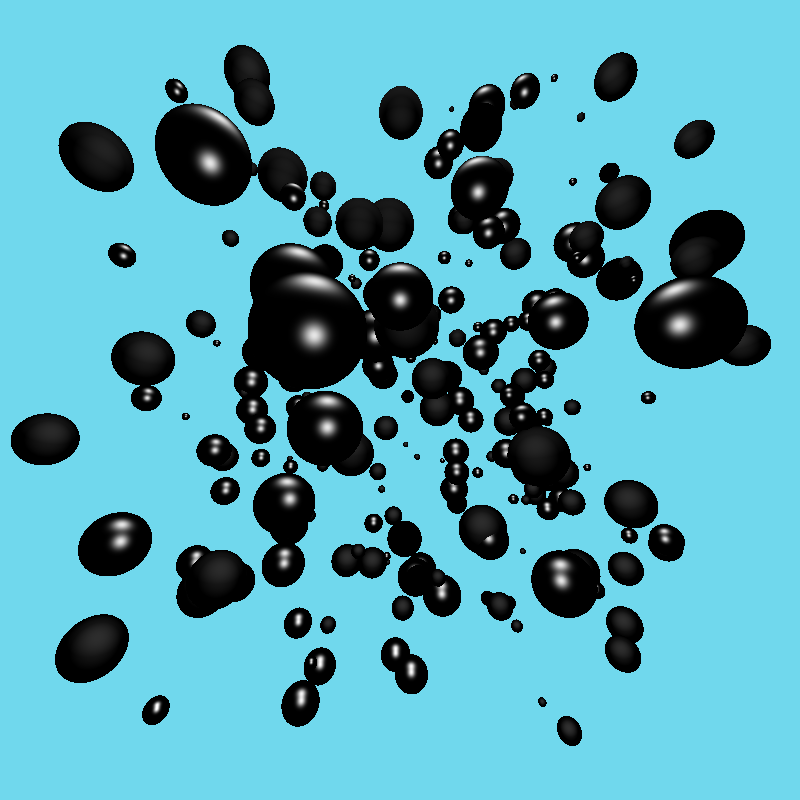
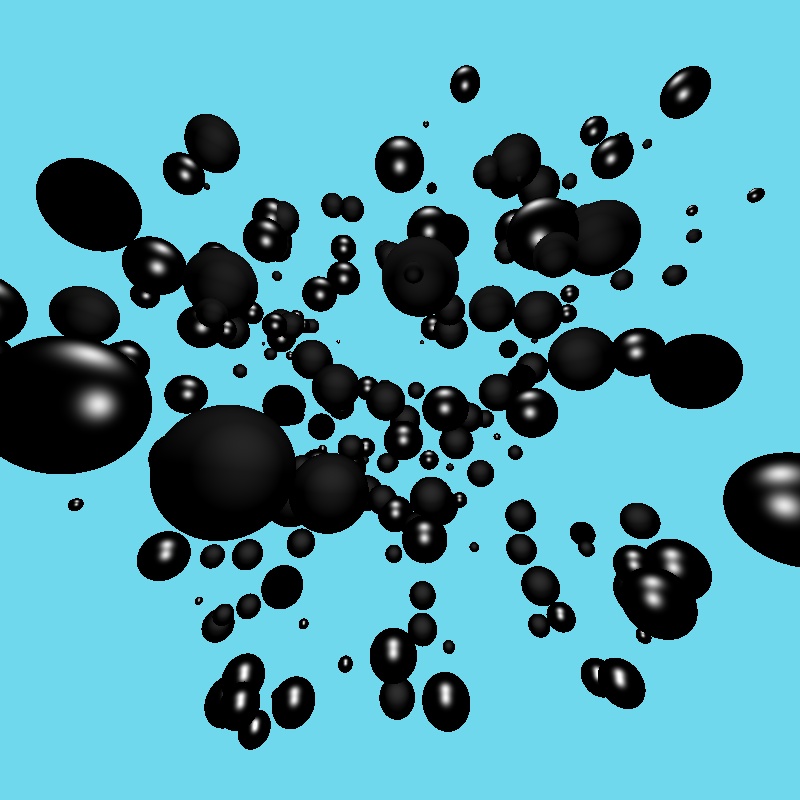
live viewport

diff --git a/src/gui/Viewport.java b/src/gui/Viewport.java
@@ -1,5 +1,7 @@
 package gui;
 import java.awt.Graphics;
+import java.awt.event.KeyEvent;
+import java.awt.event.KeyListener;
 import java.awt.image.BufferedImage;
 import java.io.File;
 
@@ -8,36 +10,40 @@ import javax.swing.ImageIcon;
 import javax.swing.JLabel;
 import javax.swing.JPanel;
 
+import math.Vector;
+import raytracer.Camera;
 import raytracer.Scene;
 import shader.Shader;
 
-public class Viewport extends JPanel{
+public class Viewport extends JPanel implements KeyListener{
     BufferedImage frameBuffer;
     ImageIcon image;
     JLabel label;
+    Vector camMovement = Vector.ZERO;
 
     public Viewport(int width, int height){
+        setFocusable(true);
+        requestFocus();
         setVisible(true);
         setSize(width, height);
         frameBuffer = new BufferedImage(getWidth(),getHeight(),BufferedImage.TYPE_INT_RGB);
-        
     }
 
-    public void render(Scene scene, Shader shader){
-        // while(true){
-            BufferedImage tempBuffer = new BufferedImage(getWidth(),getHeight(),BufferedImage.TYPE_INT_RGB);
+    public void renderScene(Scene scene, Shader shader){
+        BufferedImage tempBuffer;
+        while(true){
+            tempBuffer = new BufferedImage(getWidth(),getHeight(),BufferedImage.TYPE_INT_RGB);
             scene.renderImage(shader, tempBuffer);
+            Camera camera = scene.getCamera();
+            camera.move(camMovement);
             frameBuffer = tempBuffer;
-            repaint();
-        // }
+            paintImmediately(0,0,getWidth(),getHeight());
+        }
     }
 
     @Override
     public void paint(Graphics g) {
-        image.setImage(frameBuffer);
-        label = new JLabel(image);
-        add(label);
-        g.drawImage(frameBuffer, 0, 0, this);
+        if(frameBuffer != null) g.drawImage(frameBuffer, 0, 0, this);
     }
     
     public void renderToFile(Scene scene, Shader shader, boolean timed){
@@ -55,5 +61,63 @@ public class Viewport extends JPanel{
     public void writeImage(String name){
         File file = new File("./images/"+name+".png");
         try { ImageIO.write(frameBuffer, "png", file); } catch (Exception e) {}
+    }
+
+    @Override
+    public void keyTyped(KeyEvent e) {}
+
+    @Override
+    public void keyPressed(KeyEvent e) {
+        switch(e.getKeyCode()){
+            case KeyEvent.VK_D : 
+                camMovement = camMovement.add(Vector.Xneg);
+                break;
+            case KeyEvent.VK_A : 
+                camMovement = camMovement.add(Vector.Xpos);
+                break;
+            case KeyEvent.VK_S : 
+                camMovement = camMovement.add(Vector.Zneg);
+                break;
+            case KeyEvent.VK_W : 
+                camMovement = camMovement.add(Vector.Zpos);
+                break;
+            case KeyEvent.VK_SPACE : 
+                camMovement = camMovement.add(Vector.Ypos);
+                break;
+            case KeyEvent.VK_SHIFT : 
+                camMovement = camMovement.add(Vector.Yneg);
+                break;
+            default:
+                break;
+        }
+        System.out.println(camMovement);
+        
+    }
+
+    @Override
+    public void keyReleased(KeyEvent e) {
+        switch(e.getKeyCode()){
+            case KeyEvent.VK_D : 
+                camMovement = camMovement.sub(Vector.Xneg);
+                break;
+            case KeyEvent.VK_A : 
+                camMovement = camMovement.sub(Vector.Xpos);
+                break;
+            case KeyEvent.VK_S : 
+                camMovement = camMovement.sub(Vector.Zneg);
+                break;
+            case KeyEvent.VK_W : 
+                camMovement = camMovement.sub(Vector.Zpos);
+                break;
+            case KeyEvent.VK_SPACE : 
+                camMovement = camMovement.sub(Vector.Ypos);
+                break;
+            case KeyEvent.VK_SHIFT : 
+                camMovement = camMovement.sub(Vector.Yneg);
+                break;
+            default:
+                break;
+        }
+        System.out.println(camMovement);
     }
 }

diff --git a/src/gui/App.java b/src/gui/App.java
@@ -37,10 +37,10 @@ public class App extends JFrame implements ActionListener, ChangeListener {
     public App(){
         int btnWidth = 160;
         int btnHeight = 40;
+
         open.setBounds(40,20,btnWidth,btnHeight);
         open.setFocusable(false);
         open.addActionListener(this);
-        
         add(open);
 
         chooser.setDialogTitle("Scene auswählen");
@@ -67,10 +67,12 @@ public class App extends JFrame implements ActionListener, ChangeListener {
         slider.setPaintLabels(true);
         add(slider);
 
-        panel.setBounds(100, 100, 800, 800);
-        panel.add(images);
-        panel.add(viewport);
-        add(panel);
+        // panel.setBounds(100, 100, 800, 800);
+        // panel.add(images);
+        // add(panel);
+        
+        viewport.setBounds(100, 100, 800, 800);
+        add(viewport);
         
         setDefaultCloseOperation(JFrame.EXIT_ON_CLOSE);
         setTitle("Raytracer");
@@ -85,13 +87,12 @@ public class App extends JFrame implements ActionListener, ChangeListener {
         if(e.getSource() == render || e.getSource() == field) {
             Scene s = new Scene("./scenes/"+field.getText()+".json");
 
-            viewport.render(s, new PhongShader());
+            viewport.renderScene(s, new PhongShader());
 
             // viewport.renderToFile(s, new AmbientShader(), false);
             // viewport.renderToFile(s, new DiffuseShader(), false);
             // viewport.renderToFile(s, new SpecularShader(),false);
             // viewport.renderToFile(s, new PhongShader(),   false);
-
             // images.getNewImages();
         }else if(e.getSource() == open){
             chooser.setFileSelectionMode(JFileChooser.FILES_ONLY);
@@ -109,13 +110,12 @@ public class App extends JFrame implements ActionListener, ChangeListener {
         }else if(e.getSource() == random){
             Scene s = Scene.randomSpheres(randomCount);
 
-            viewport.render(s, new PhongShader());
+            viewport.renderScene(s, new PhongShader());
 
             // viewport.renderToFile(s, new AmbientShader(), false);
             // viewport.renderToFile(s, new DiffuseShader(), false);
             // viewport.renderToFile(s, new SpecularShader(),false);
             // viewport.renderToFile(s, new PhongShader(),   false);
-
             // images.getNewImages();
         }
         
